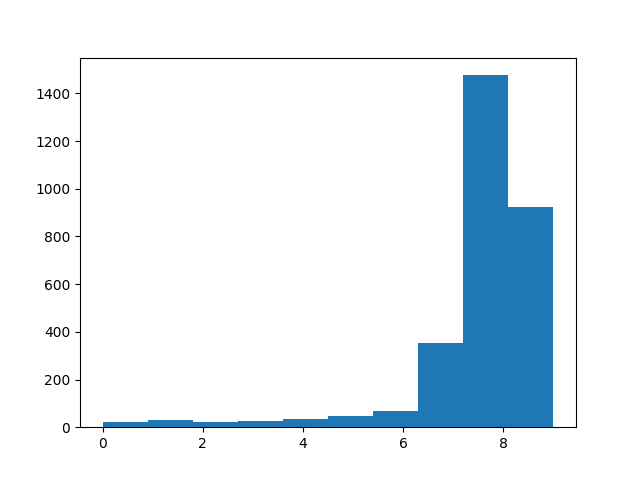
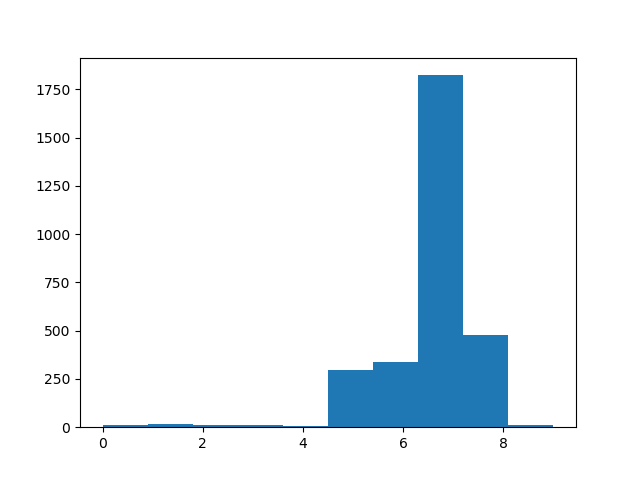
punto 5 e 6

diff --git a/experiments/experiment_5.py b/experiments/experiment_5.py
@@ -1,66 +1,104 @@
-from learners import GPTS_learner_positive
-from environment import BiddingEvironment
 import numpy as np
-import matplotlib.pyplot as plt
-import yaml
+from configmanager import ConfigManager
 from tqdm import tqdm
-from configmanager import *
+from environment import PricingEnvironment
+from environment import BiddingEvironment
+from learners import *
+from scipy.stats import norm, beta
+import matplotlib.pyplot as plt
+
 
 class Experiment5():
-
+    
     def __init__(self):
+        self.cm = ConfigManager()
 
-        cm = ConfigManager()
+        # pricing
+        self.prices = np.array(self.cm.prices) # candidates
+        self.num_people = 10000*np.array(self.cm.class_distribution)
 
-        self.n_arms = 10
-        self.bids = np.array(cm.bids)
-        self.prices = cm.prices
-        self.num_people = 10000*np.array(cm.class_distribution)
-        self.p = cm.aggr_conv_rates()
+        # self.p = [.12, .3, .1, .5, .07, .43, .03, .02, .34, .06] # probabilities (conv rate)
+        self.p = self.cm.aggr_conv_rates()
+        self.n_arms = len(self.prices) #p = cm.aggr_conv_rates()
         self.opt_pricing = np.max(np.multiply(self.p, self.prices)) 
-        self.means = cm.aggregated_new_clicks_function_mean(self.bids, self.num_people)
-        self.sigmas = cm.aggregated_new_clicks_function_sigma(self.bids, self.num_people)
-        self.opt = np.max(self.means * (self.opt_pricing - cm.cc(self.bids)))
-        self.optimal_bid = np.argmax(self.means * (self.opt_pricing - cm.cc(self.bids)))
-        self.T = 300
-        self.n_experiments = 10
+        self.opt_arm_pricing = np.argmax(np.multiply(self.p, self.prices))
+        
+
+        # bidding 
+        self.bids = np.array(self.cm.bids)
+        self.sigma = 10
+        # self.p = np.array([.1, .03, .34, .28, .12, .19, .05, .56, .26, .35]) # cm.aggr_conv_rates()
+        # perchè ridefiniamo questa???
+        
+        # self.means = self.cm.new_clicks(self.bids)
+        self.means = self.cm.aggregated_new_clicks_function_mean(self.bids, self.num_people)
+        self.sigmas = self.cm.aggregated_new_clicks_function_sigma(self.bids, self.num_people)
+
+
+        
+
+        self.opt = np.max(self.means * (self.opt_pricing - self.cm.mean_cc(self.bids)))
+        indice = np.argmax(self.means * (self.opt_pricing - self.cm.mean_cc(self.bids)))
+
+        print(self.means[indice])
+        print(self.opt_pricing)
+        print(self.cm.mean_cc(self.bids)[indice])
+        
+    
         self.gpts_reward_per_experiment = []
         self.p_arms = []
 
+        self.ts_reward_per_experiments = []
+
+        self.T = 200 # number of days
+        self.n_experiments = 8
+
     def run(self):
-        for e in tqdm(range(self.n_experiments)):
-            '''
-            print('num_people '+str(self.num_people))
-            print('medie '+str(self.means))
-            print('sd '+str(self.sigmas))
-            print('ottimo di pricing '+str(self.opt_pricing))
-            print('ottimo totale '+str(self.opt))
-            '''
-            env = BiddingEvironment(self.bids, self.means, self.sigmas)
-            gpts_learner = GPTS_learner_positive(n_arms=self.n_arms, arms=self.bids, threshold=0.2) 
-            # qui metto anche bid perchè per implementare GP serve sapere le distanze tra i dati
 
-            for t in range(self.T):
+        self.rewards_full = []
 
-                pulled_arm = gpts_learner.pull_arm()
-                reward = env.round(pulled_arm, self.opt_pricing)
-                gpts_learner.update(pulled_arm, reward)
-                self.p_arms.append(pulled_arm)
+        for e in tqdm(range(0, self.n_experiments)):
 
-            self.gpts_reward_per_experiment.append(gpts_learner.collected_rewards)
-        print(self.optimal_bid)
+            Benv = BiddingEvironment(self.bids, self.means, self.sigmas)
+            
+
+            gpts_learner = GPTS_learner_positive(n_arms=self.n_arms, arms=self.bids, threshold=0.2)
+
+            rewards_this = []
+
+            for t in range(0,self.T):
+                 
+                pulled_price = self.opt_arm_pricing # lo cambio come voglio
+                price_value = self.opt_pricing
+                price = self.prices[pulled_price]
+
+                pulled_bid = gpts_learner.pull_arm(price_value)
+
+                # problema: il braccio tirato dal learner di bidding
+                # deve dipendere da price
+                
+                news, cost = Benv.round(pulled_bid)
+                
+                reward = news*self.opt_pricing-cost
+
+                #print('empirical opt pricing: '+str(buyer*price/news)+' theoretical opt pricing: '+str(self.opt_pricing))
+                
+                
+                gpts_learner.update(pulled_bid, news)
+
+                rewards_this.append(reward)
+            
+            self.rewards_full.append(rewards_this)
 
     def plot(self):
         #sns.distplot(np.array(p_arms))
 
-        plt.figure(0)
-        plt.hist(self.p_arms)
-        plt.savefig("img/experiments/experiment_5_hist.png")
         
-        plt.figure(1)
+        
+        plt.figure(0)
         plt.ylabel('Regret')
         plt.xlabel('t')
-        plt.plot(np.cumsum(np.mean(self.opt - self.gpts_reward_per_experiment, axis = 0)),'g')
+        plt.plot(np.cumsum(np.mean(self.opt - self.rewards_full, axis = 0)),'g')
         plt.legend(["GPTS"])
         plt.savefig("img/experiments/experiment_5.png")
         

diff --git a/experiments/experiment_6.py b/experiments/experiment_6.py
@@ -1,5 +1,11 @@
 import numpy as np
 from configmanager import ConfigManager
+from tqdm import tqdm
+from environment import PricingEnvironment
+from environment import BiddingEvironment
+from learners import *
+from scipy.stats import norm, beta
+import matplotlib.pyplot as plt
 
 
 class Experiment6():
@@ -8,24 +14,99 @@ class Experiment6():
         self.cm = ConfigManager()
 
         # pricing
-        self.prices = self.cm.prices # candidates
+        self.prices = np.array(self.cm.prices) # candidates
+        self.num_people = 10000*np.array(self.cm.class_distribution)
 
-        self.p = [.12, .3, .1, .5, .07, .43, .03, .02, .34, .06] # probabilities (conv rate)
+        # self.p = [.12, .3, .1, .5, .07, .43, .03, .02, .34, .06] # probabilities (conv rate)
+        self.p = self.cm.aggr_conv_rates()
         self.n_arms = len(self.prices) #p = cm.aggr_conv_rates()
         self.opt_pricing = np.max(np.multiply(self.p, self.prices)) 
+        
 
         # bidding 
         self.bids = np.array(self.cm.bids)
         self.sigma = 10
-        self.p = [.1, .03, .34, .28, .12, .19, .05, .56, .26, .35]# cm.aggr_conv_rates()
+        # self.p = np.array([.1, .03, .34, .28, .12, .19, .05, .56, .26, .35]) # cm.aggr_conv_rates()
+        # perchè ridefiniamo questa???
         
-        self.means = self.cm.new_clicks(self.bids)
-        self.opt = np.max(self.means * (self.opt_pricing - self.bids))
+        # self.means = self.cm.new_clicks(self.bids)
+        self.means = self.cm.aggregated_new_clicks_function_mean(self.bids, self.num_people)
+        self.sigmas = self.cm.aggregated_new_clicks_function_sigma(self.bids, self.num_people)
+
+
+        
+
+        self.opt = np.max(self.means * (self.opt_pricing - self.cm.mean_cc(self.bids)))
+        indice = np.argmax(self.means * (self.opt_pricing - self.cm.mean_cc(self.bids)))
+
+        print(self.means[indice])
+        print(self.opt_pricing)
+        print(self.cm.mean_cc(self.bids)[indice])
+        
     
         self.gpts_reward_per_experiment = []
         self.p_arms = []
 
         self.ts_reward_per_experiments = []
 
-        self.T = 365 # number of days
-        self.n_experiments = 100
+        self.T = 200 # number of days
+        self.n_experiments = 8
+
+    def run(self):
+
+        self.rewards_full = []
+
+        for e in tqdm(range(0, self.n_experiments)):
+
+            Penv = PricingEnvironment(n_arms=self.n_arms, probabilities=self.p, candidates=self.prices)
+            Benv = BiddingEvironment(self.bids, self.means, self.sigmas)
+            
+
+            ts_learner = TS_Learner(n_arms=self.n_arms, candidates=self.prices)
+            gpts_learner = GPTS_learner_positive(n_arms=self.n_arms, arms=self.bids, threshold=0.2)
+
+            rewards_this = []
+
+            for t in range(0,self.T):
+                 
+                pulled_price, price_value = ts_learner.pull_arm()
+                price = self.prices[pulled_price]
+
+                pulled_bid = gpts_learner.pull_arm(price_value)
+
+                # problema: il braccio tirato dal learner di bidding
+                # deve dipendere da price
+                
+                news, cost = Benv.round(pulled_bid)
+                buyer = Penv.round(pulled_price, news)
+
+                reward = buyer*price-cost
+
+                print('empirical opt pricing: '+str(buyer*price/news)+' theoretical opt pricing: '+str(self.opt_pricing))
+                
+
+                not_buyer = news-buyer
+                
+                ts_learner.update_more(pulled_price, reward, buyer, not_buyer)
+                gpts_learner.update(pulled_bid, news)
+
+                rewards_this.append(reward)
+            
+            self.rewards_full.append(rewards_this)
+
+    def plot(self):
+        #sns.distplot(np.array(p_arms))
+
+        
+        
+        plt.figure(0)
+        plt.ylabel('Regret')
+        plt.xlabel('t')
+        plt.plot(np.cumsum(np.mean(self.opt - self.rewards_full, axis = 0)),'g')
+        plt.legend(["GPTS"])
+        plt.savefig("img/experiments/experiment_6.png")
+        
+
+        #plt.show()
+            
+

diff --git a/learners.py b/learners.py
@@ -2,7 +2,7 @@ import logging
 import numpy as np
 from sklearn.gaussian_process import GaussianProcessRegressor
 from sklearn.gaussian_process.kernels import RBF, ConstantKernel as C
-from scipy.stats import norm
+from scipy.stats import norm, beta
 
 class Learner:
     
@@ -79,6 +79,8 @@ class UCB1(Learner):
             self.confidence[a] = (2*np.log(self.t)/ number_pulled)**0.5
         np.append(self.rewards_per_arm[pulled_arm], reward)
 
+        
+
 class TS_Learner(Learner):
 
     def __init__(self, n_arms, candidates):
@@ -92,7 +94,7 @@ class TS_Learner(Learner):
         expected_rewards = np.multiply(beta_samples, self.candidates)
 
         idx = np.argmax(expected_rewards)
-        return idx
+        return idx, max(expected_rewards)
 
     def update(self, pulled_arm, reward):
         self.t+=1
@@ -102,6 +104,14 @@ class TS_Learner(Learner):
         self.update_observations(pulled_arm, reward)
         self.beta_parameters[pulled_arm, 0] = self.beta_parameters[pulled_arm, 0] + binary_reward
         self.beta_parameters[pulled_arm, 1] = self.beta_parameters[pulled_arm, 1] + 1.0 - binary_reward
+
+    def update_more(self, pulled_arm, reward, buyer, not_buyer):
+        self.t+=1
+
+        self.update_observations(pulled_arm, reward)
+        self.beta_parameters[pulled_arm, 0] = self.beta_parameters[pulled_arm, 0] + buyer
+        self.beta_parameters[pulled_arm, 1] = self.beta_parameters[pulled_arm, 1] + not_buyer
+
 
     def success_prob(self, arm):
         # alpha: successes of the arm
@@ -170,7 +180,7 @@ class GPTS_learner_positive(Learner):
         self.sigmas = np.ones(n_arms)*10000
         self.pulled_arms = []         # per avere il numero del round utilizzeremo len(pulled_arm)
         self.threshold = threshold
-        alpha = 10.0
+        alpha = 3.0 #10.0
         kernel = C(0.0001, (1e-6, 2e1)) * RBF(0.01, (1e-6, 1e1  ))
         self.gp = GaussianProcessRegressor(kernel = kernel, alpha = alpha**2, n_restarts_optimizer = 9)
 
@@ -191,20 +201,23 @@ class GPTS_learner_positive(Learner):
         self.UpdateObservation(pulled_arm, reward)
         self.update_model()
 
-    def is_eligible(self, idx):
+    def is_eligible(self, idx, price_value):
         proba = norm(loc = self.means[idx], scale = self.sigmas[idx]).cdf(0.0)
-        if (proba < self.threshold):
-            return True
-        return False
+        if (proba > self.threshold):
+            return False
+        if (price_value-self.arms[idx]*beta.ppf(1-self.threshold, 4.4, self.arms[idx]**0.5) < 0):
+            return False
+        return True
 
-    def pull_arm(self):
+    def pull_arm(self, price_value):
         if (len(self.pulled_arms) < 10):
             return np.random.choice(self.n_arms)   # scelta uniforme nei primi 20 round  --> deve essere coerente con l'enviroment
         sample = np.random.normal(self.means,self.sigmas)
+        sample = sample*(price_value - self.arms*4.44/(4.4 + self.arms**0.5)) # adjust sample wrt price value
         neg = []
         for i in range(len(sample)):  # controllo uno alla volta gli elementi del sample
             idx = np.argmax(sample)
-            if self.is_eligible(idx):
+            if self.is_eligible(idx, price_value):
                 return idx
             else:
                 print(idx)
@@ -212,5 +225,8 @@ class GPTS_learner_positive(Learner):
             print('errore, nessun braccio eligible, ne restituisco uno a caso')    
         return np.argmax(np.random.normal(self.means,self.sigmas))
 
+
+
+####### experiment 6 #########
 
 

diff --git a/environment.py b/environment.py
@@ -42,11 +42,28 @@ class BiddingEvironment():
     self.bids = bids
     self.means = means
     self.sigmas = sigmas
+    self.cm = ConfigManager()
   
   def cc(self, bid):
-    return bid/(1+bid**0.5)
+    return self.cm.cc(bid)         #(bid/(1+bid**0.5))
 
-  def round(self, pulled_arm, value):    # pulled arm is the index of one of the bids
+  def round(self, pulled_arm):    # pulled arm is the index of one of the bids
     news = np.random.normal(self.means[pulled_arm], self.sigmas[pulled_arm])
-    return news*(value - self.cc(self.bids[pulled_arm]))
+    cost = news*self.cc(self.bids[pulled_arm])
+    return news, cost
+    # return news*(value - self.cc(self.bids[pulled_arm]))
+
+
+class PricingEnvironment():
+    def __init__(self, n_arms, probabilities, candidates):
+
+        self.candidates = candidates
+        self.n_arms = n_arms
+        self.probabilities = probabilities
+
+    def round(self, pulled_arm, num_clicks): # this time the number of people that click is determined by the bidding part,
+        # thus, we cannot simply take one as before
+
+        buyer = np.random.binomial(num_clicks, self.probabilities[pulled_arm])
+        return buyer
    

diff --git a/configmanager.py b/configmanager.py
@@ -64,8 +64,10 @@ class ConfigManager():
         return v
 
     def cc(self, bid):
-        return bid/(1+bid**0.5)
+        return bid*np.random.beta(4.4,bid**0.5)
     
+    def mean_cc(self, bid):
+        return bid*(4.4/(4.4+bid**0.5))
     #------------------------------
     # AGGREGATED FUNCTIONS
     #------------------------------
